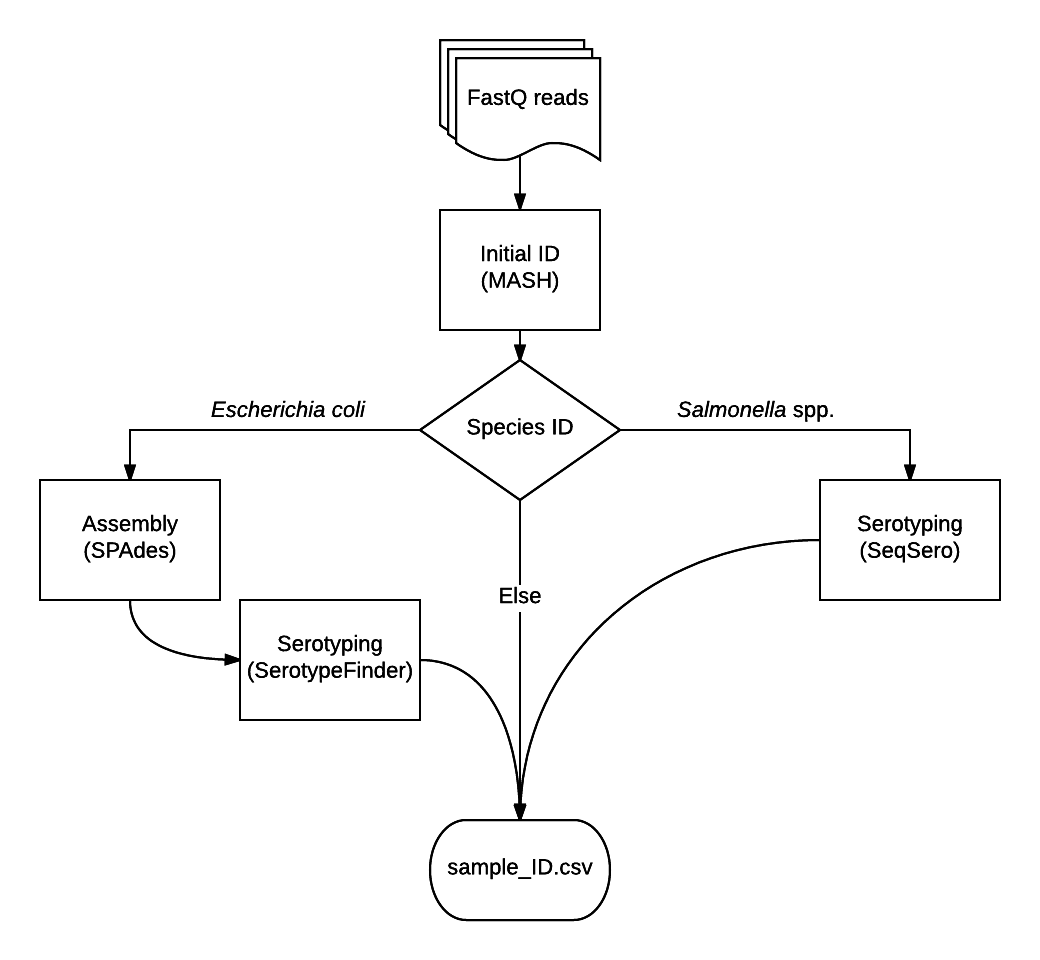
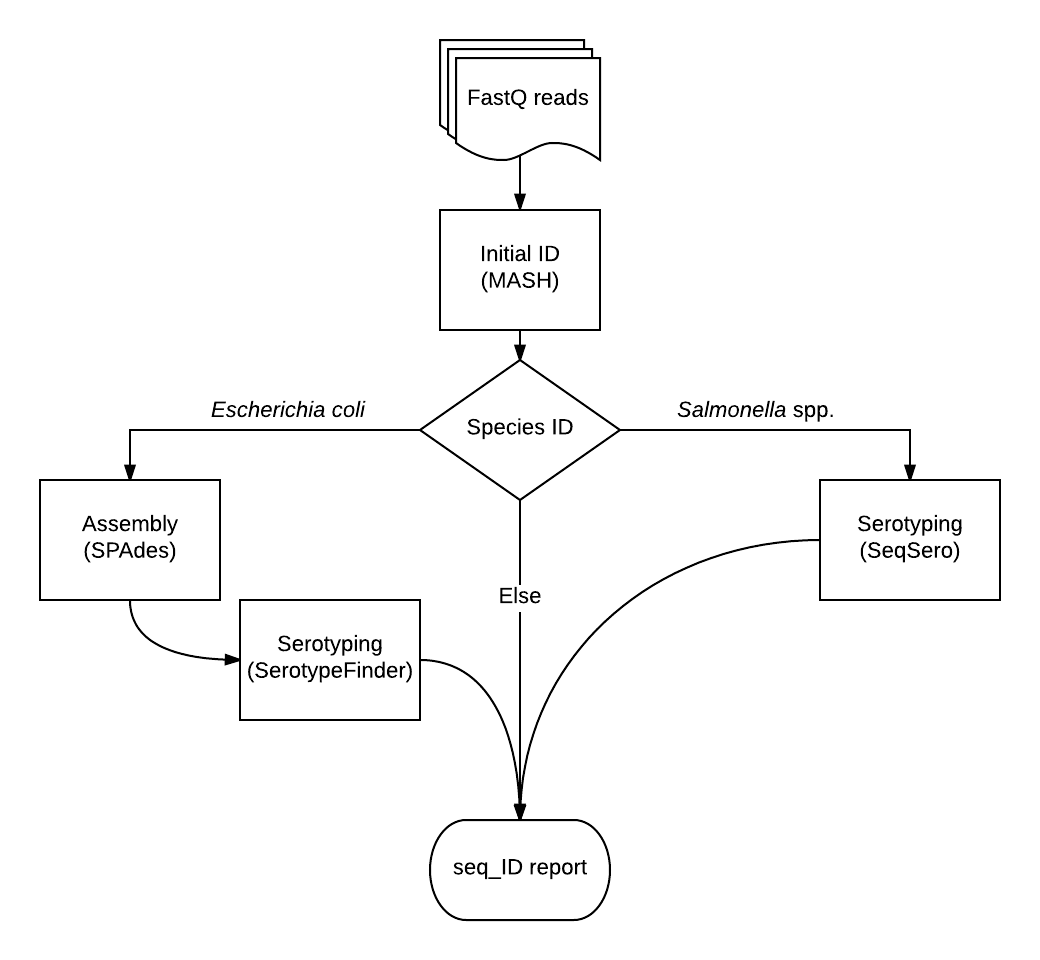
Update README to provide more detail about pipeline

diff --git a/README.md b/README.md
@@ -1,21 +1,35 @@
 # Seq_ID
 A bioinformatics pipeline for organism identification and sample-label verification of whole genome sequence (WGS) data produced at the DCLS
 
-----
 
-Data workflow:
+##Rationale 
+
+
+The DCLS is in need for a quality assurance pipeline to verify sample ID labels prior to publishing sequence data. 
+
+
+
+## Data workflow:
 ![seq_ID pipeline](./docs/seq_ID.png)
 
+Seq_ID uses [MASH](http://genomebiology.biomedcentral.com/articles/10.1186/s13059-016-0997-x), a fast genome distance estimation algorithm, to determine the taxonomic identitity of all isolates; MASH is capable of accurate identification up to the species level. This level of resolution will suffice for organisms other than \**Salmonella* spp. and *Escherichia coli* isolates.
 
-----
+For *Salmonella* spp. and *Escherichia coli* isolates, serotype is determined through [SeqSero](http://jcm.asm.org/content/early/2015/03/05/JCM.00323-15) and [SerotypeFinder](http://jcm.asm.org/content/53/8/2410.full.pdf+html), respectively. 
 
-Basic usage: 
+All results are compiled into a single seq\_ID report. This report can be accessed by WGS scientists to compare molecular typing results of each sample; significant incongruences are assumed to be a result of mislabeling. 
+
+---
+
+<sup>\*The majority of isolates sequenced at the DCLS are *Salonella* spp. and *Escherichia coli*. For this reason, verifification of species does little for quality assurance. E.g. if an entire sequencing run contains *Salmonella enterica* isoaltes of different serotypes, confirming the species will not help to identify mislabeled samples within that run. </sup>
+
+
+##Basic usage: 
 
 ````sh
 $ seq_id.sh -i <input> -o <output_dir>
 ````
 
-Seq\_ID assumes input to be a DCLS BaseSpace project within the mounted BaseSpace profile that contains multiple samples and read files ending in  R[1,2]_001.fastq.gz 
+Seq\_ID assumes `<input>` to be a DCLS BaseSpace project within the mounted BaseSpace profile that contains multiple samples and read files ending in  R[1,2]_001.fastq.gz 
 
 
 Note: if the pipeline breaks durring analysis, do **not** restart seq_ID by running the same command. Instead, change to the output directory and type `make`.
@@ -24,3 +38,17 @@ Note: if the pipeline breaks durring analysis, do **not** restart seq_ID by runn
 $ cd <output_dir>
 $ make
 ````
+## Scripts
+
+|  Script | Discription   | 
+| --- | --- |
+|rename\_basespace\_files | Removes cruft (i.e. set number) from BaseSpace File name|
+|initial\_id.sh | Runs MASH, a fast genome and metagenome distance estimation using MinHash, to determine the taxonomic identitify of all isolates with high resolution up to the species level.|
+|seq\_id\_report.sh| Generates a raw.csv file containing MASH results
+|assemble_ecoli.sh| Runs SPAdes to generate *de novo* assemblies for *E.coli* isolates to be used as input to serotypeFinder|
+|ecoli\_serotype.sh| Runs serotypeFinder to serotype *E.coli* isolates|
+|add\_ecoli\_sero.sh| Updates raw.csv to include serotypeFinder results; the updated .csv file is saved to ecoli.csv|
+|sal_serotype.sh| Runs SeqSero to serotype *Salmonella* spp. isolates|
+|add\_sal\_sero.sh| Updates ecoli.csv to include SeqSero results; the updated .csv file is saved to ecoli_sal.csv|
+|Makefile| Runs all of the above shell scripts and generates the final seq_ID report|
+|seq_id.sh| Main executable that assures proper input files exist, creates a project directory and runs the Makefile
